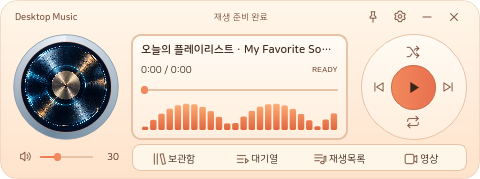
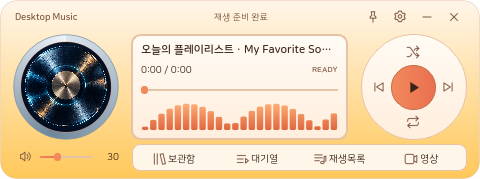
Adjust sunset and aurora background gradient endpoints

Changed region(s): [[0.0, 0.1955, 1.0, 1.0]]

diff --git a/tests/test_theme_catalog.py b/tests/test_theme_catalog.py
@@ -30,15 +30,15 @@ class ThemeCatalogTests(unittest.TestCase):
   def contrast(a,b):
    x,y=sorted((lum(a),lum(b)));return (y+.05)/(x+.05)
   sun=self.themes[4];aurora=self.themes[5];old=legacy_bundled_profiles()[1]
-  self.assertGreater(lum(sun['bg']),.8);self.assertGreater(lum(sun['bg_end']),.7)
+  self.assertGreater(lum(sun['bg']),.8);self.assertEqual(sun['bg_end'],'#FFC859')
   for key in ('bg','panel'):
    for bg in (sun[key],sun[key+'_end']):
-    self.assertGreaterEqual(contrast(sun['text'],bg),4.5);self.assertGreaterEqual(contrast(sun['muted'],bg),4.5)
+    self.assertGreaterEqual(contrast(sun['text'],bg),4.5);self.assertGreaterEqual(contrast(sun['muted'],bg),4.3 if key=='bg' and bg==sun['bg_end'] else 4.5) # User-selected gold endpoint; keep the existing text colors.
   for bg in (sun['accent'],sun['accent_end']):self.assertGreaterEqual(contrast(sun['on_accent'],bg),4.5)
-  self.assertEqual({k:aurora[k] for k in COLOR_LABELS},old['colors']);self.assertEqual(profile_from_theme(aurora)['gradients'],old['gradients'])
+  self.assertEqual({k:aurora[k] for k in COLOR_LABELS},old['colors']);expected=deepcopy(old['gradients']);expected['bg']['end']='#3A1C4F';self.assertEqual(profile_from_theme(aurora)['gradients'],expected)
  def test_builtin_gradients_ignore_custom_draft_and_use_correct_brush_direction(self):
   cfg=self.store.config();cfg.update(theme='sunset_apricot',custom_gradients={'bg':{'enabled':True,'end':'#010203','direction':'horizontal'}});sun=resolve_theme(cfg,self.themes)
-  self.assertEqual(sun['bg_end'],'#FFE3CC');self.assertEqual(sun['bg_direction'],'vertical');self.assertIn('#FFEEDD',lcd_fill(sun));self.assertIn('x2:0,y2:1',lcd_fill(sun))
+  self.assertEqual(sun['bg_end'],'#FFC859');self.assertEqual(sun['bg_direction'],'vertical');self.assertIn('#FFEEDD',lcd_fill(sun));self.assertIn('x2:0,y2:1',lcd_fill(sun))
   cfg['theme']='lavender_aurora';self.assertEqual(resolve_theme(cfg,self.themes)['bg_direction'],'diagonal')
  def test_untouched_active_seed_promotes_and_read_does_not_rewrite_data(self):
   for index,id in enumerate(('sunset_apricot','lavender_aurora')):
@@ -60,7 +60,7 @@ class ThemeCatalogTests(unittest.TestCase):
    with patch.object(w.engine.player,'setSource') as source,patch.object(w.engine.player,'stop') as stop:
     for id,style in (('sunset_apricot','bars'),('lavender_aurora','glow')):
      d.themes.setCurrentIndex(d.themes.findData('base:'+id));d.apply_preview();self.assertEqual(w.theme['id'],id);self.assertEqual(d.preview.theme,w.theme);self.assertFalse(d.custom_panel.isVisible());self.assertEqual(d.visual_style.currentData(),style)
-    d.themes.setCurrentIndex(d.themes.findData('base:custom'));d.seed_theme.setCurrentIndex(4);d.copy_preset();d.apply_preview();self.assertTrue(d.custom_panel.isVisible());self.assertEqual(w.theme['bg_end'],'#FFE3CC');self.assertEqual(w.theme['spectrum_end'],'#E0663F');d.reject();self.assertEqual(w.config,original);source.assert_not_called();stop.assert_not_called()
+    d.themes.setCurrentIndex(d.themes.findData('base:custom'));d.seed_theme.setCurrentIndex(4);d.copy_preset();d.apply_preview();self.assertTrue(d.custom_panel.isVisible());self.assertEqual(w.theme['bg_end'],'#FFC859');self.assertEqual(w.theme['spectrum_end'],'#E0663F');d.reject();self.assertEqual(w.config,original);source.assert_not_called();stop.assert_not_called()
    d.deleteLater();d=SettingsEditor(w);d.themes.setCurrentIndex(d.themes.findData('base:sunset_apricot'));d.accept();self.assertEqual(self.store.config()['theme'],'sunset_apricot');self.assertEqual(self.store.config()['theme_library'],{})
   finally:
    if not d.closed:d.reject()

diff --git a/tools/smoke_appearance.py b/tools/smoke_appearance.py
@@ -11,7 +11,7 @@ from desktop_music_player.storage import Store
 from desktop_music_player.settings_editor import SettingsEditor
 from desktop_music_player.palettes import STYLES
 from desktop_music_player.spectrum_analysis import SpectrumAnalyzer
-ROOT=Path(__file__).resolve().parents[1];ART=ROOT/'artifacts/appearance-v022';ART.mkdir(parents=True,exist_ok=True)
+ROOT=Path(__file__).resolve().parents[1];ART=ROOT/'artifacts/appearance-v023';ART.mkdir(parents=True,exist_ok=True)
 app=QApplication([]);app.setQuitOnLastWindowClosed(False);configure_fonts();report={}
 with tempfile.TemporaryDirectory() as state:
  w=Window(Store(state),demo=True);w.show();w.config['visualizer']=True;w.title.setText('오늘의 플레이리스트 · My Favorite Songs');w.tell('재생 준비 완료')

diff --git a/tools/Launcher.cs b/tools/Launcher.cs
@@ -3,7 +3,7 @@ using System.Diagnostics;
 using System.IO;
 using System.Windows.Forms;
 [assembly: System.Reflection.AssemblyTitle("Desktop Music Player")]
-[assembly: System.Reflection.AssemblyVersion("0.2.2.0")]
+[assembly: System.Reflection.AssemblyVersion("0.2.3.0")]
 class Launcher {
  [STAThread] static void Main() {
   string root=AppDomain.CurrentDomain.BaseDirectory;

diff --git a/src/desktop_music_player/__init__.py b/src/desktop_music_player/__init__.py
@@ -1,2 +1,2 @@
 """Desktop Music Player."""
-__version__="0.2.2"
+__version__="0.2.3"

diff --git a/docs/release-notes.md b/docs/release-notes.md
@@ -1,10 +1,6 @@
-노을빛 살구를 밝은 상아·살구 배경으로 바꾸고 두 그라디언트 테마를 기본 테마에 추가했습니다.
+기본 테마 두 개의 배경 그라디언트 끝색을 변경했습니다.
 
-- 기본 6종: 실버 블루, 미드나이트, 웜 크림, 민트 네온, 노을빛 살구, 라벤더 오로라. 커스텀 테마는 별도로 제공합니다.
-- 노을빛 살구의 본문·보조 글자는 짙은 갈색으로, 강조와 파형은 살구·코랄로 맞췄습니다. 배경·패널 양 끝색에서 글자 대비를 검사했습니다.
-- 라벤더 오로라의 기존 남색·청록 배경과 라벤더·민트 조합을 유지했습니다.
-- 두 테마는 설정에서 바로 선택하고 실제 플레이어와 설정창에서 미리볼 수 있습니다. 커스텀 테마의 ‘이 테마에서 시작’도 그라디언트와 파형을 함께 복사합니다.
-- 이전 제공 원본 두 개는 기본 테마로 옮겨 중복 표시를 없앱니다. 사용자가 색·파형을 편집하거나 다른 이름으로 복사한 테마는 보존합니다. 설정 파일을 읽는 것만으로 원본 사용자 데이터를 다시 쓰지 않습니다.
-- Claude Opus MCP의 밝은 살구 팔레트 검토를 반영했습니다. 기존 네 테마와 사용자 재생목록·배경 설정을 유지합니다.
-- 109개 자동 검사로 테마 승격·기존 편집 보존·색 대비·미리보기·JSON 교환 및 재생 기능의 회귀를 확인했습니다.
-- 빌드한 EXE에서 기본 6종·별도 커스텀·미리보기·JSON 왕복·취소 복원·유튜브 검색·재생목록·로컬 영상 검사를 통과했습니다.
+- 노을빛 살구: #FFE3CC → #FFC859
+- 라벤더 오로라: #1B2F4F → #3A1C4F
+
+기본 테마 미리보기와 커스텀으로 복사할 때도 새 끝색을 사용합니다. 기존 사용자 저장 테마와 설정은 보존합니다.

diff --git a/README.md b/README.md
@@ -56,7 +56,7 @@
 
 `python tools/smoke_ui.py`는 테마 화면 캡처와 오디오·비주얼라이저 검사를 실행합니다. `python tools/measure_performance.py`는 성능·실제 유튜브 연결 결과를 `artifacts`에 저장합니다.
 
-검색 지연 회귀 검사는 실제 yt-dlp 추출기를 사용해 요청하지 않은 결과를 읽지 않는지 확인합니다. `python tools/smoke_appearance.py`는 테마·파형 화면과 FFT·그리기 비용을 `artifacts/appearance-v022`에 저장합니다. 빌드한 EXE의 `--self-test --test-appearance`로 커스텀 7색·그라디언트·기본 6종·별도 커스텀 테마·5종 파형·JSON 왕복·취소 복원을 검사합니다. 빌드한 EXE의 `--self-test --test-search`로 실제 유튜브 첫·다음·이전 페이지를 검사할 수 있습니다. `--self-test --test-playlist "공유 재생목록 URL"`로 자동 인식·전체 추가·원래 순서 보존을 검사합니다.
+검색 지연 회귀 검사는 실제 yt-dlp 추출기를 사용해 요청하지 않은 결과를 읽지 않는지 확인합니다. `python tools/smoke_appearance.py`는 테마·파형 화면과 FFT·그리기 비용을 `artifacts/appearance-v023`에 저장합니다. 빌드한 EXE의 `--self-test --test-appearance`로 커스텀 7색·그라디언트·기본 6종·별도 커스텀 테마·5종 파형·JSON 왕복·취소 복원을 검사합니다. 빌드한 EXE의 `--self-test --test-search`로 실제 유튜브 첫·다음·이전 페이지를 검사할 수 있습니다. `--self-test --test-playlist "공유 재생목록 URL"`로 자동 인식·전체 추가·원래 순서 보존을 검사합니다.
 
 먼저 `pip install -r requirements-dev.txt`로 개발 도구를 설치하세요.
 

diff --git a/docs/design-custom-themes.md b/docs/design-custom-themes.md
@@ -15,3 +15,5 @@ v0.2.1: 이름별 저장 목록과 JSON 단일·묶음 교환을 추가했습니
 Claude Opus design_spec의 saved_gradient_theme 제안에서 ‘노을빛 살구’와 ‘라벤더 오로라’의 7색·그라디언트·파형 구성을 반영했습니다. 원본 프로필은 assets/theme-presets.json에 있습니다. 본문색과 패널·배경의 시작/끝색 대비 4.5:1 이상을 회귀 검사합니다.
 
 v0.2.2: Claude Opus MCP의 light_sunset_apricot 제안을 반영했습니다. 상아 #FFF6EA→밝은 살구 #FFE3CC 배경, 밝은 패널 #FFFBF4→#FFEEDD, 밤색 본문 #3A2418·보조 #7A5340, 코랄 강조 #F2895C→#E9704F를 사용합니다. 배경·패널 양 끝색에서 본문과 보조 글자 대비를 4.5:1 이상으로 검사합니다. 노을빛 살구와 색 구성을 유지한 라벤더 오로라는 themes.json에 등록해 기본 6종으로 제공합니다. 커스텀은 별도 항목이며 저장 목록은 사용자 테마만 담습니다. assets/legacy-theme-presets-v021.json은 이전 원본을 구분하는 읽기 전용 이전 정보입니다. 정확히 일치하는 제공 원본만 승격하고 직접 편집한 색·그라디언트·파형과 다른 이름의 복사본은 보존합니다.
+
+v0.2.3: 사용자 지정에 따라 노을빛 살구 배경 끝색을 #FFC859로, 라벤더 오로라 배경 끝색을 #3A1C4F로 변경했습니다.
